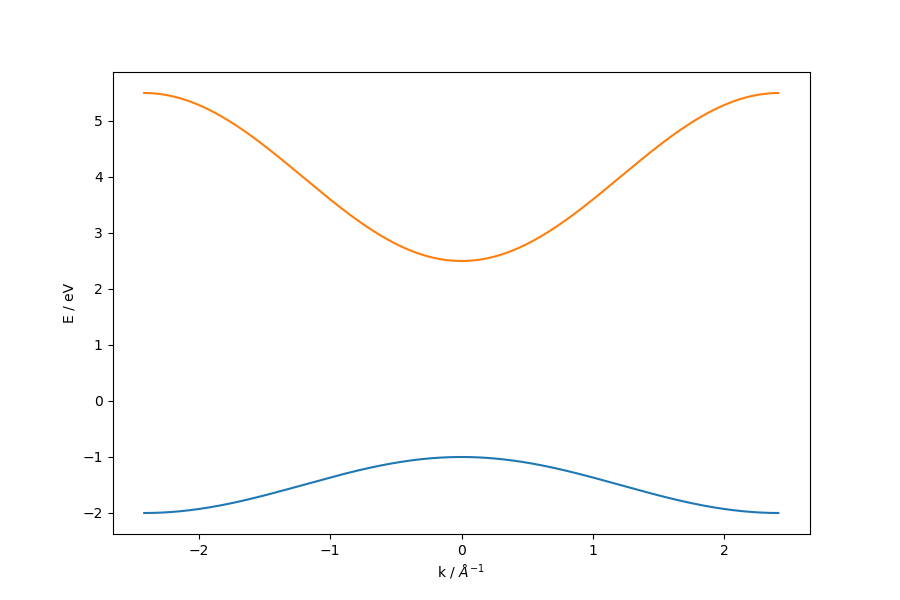
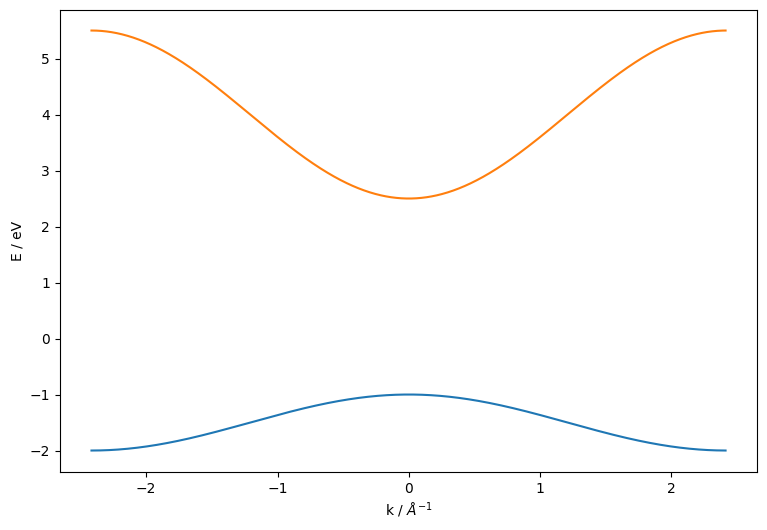
prettier plots

diff --git a/SBE_on_LCAO.py b/SBE_on_LCAO.py
@@ -8,6 +8,7 @@ import scipy.constants as constants
 from unit_conversion import eV_to_au, au_to_ev, angstrom_to_bohr, bohr_to_angstrom, lam_to_omega, nm_to_au, fs_to_au, au_to_fs, au_to_Vpm, Vpm_to_au, Cm_to_au, au_to_A
 from scipy.integrate import solve_ivp
 from LCAO_for_SBE import LCAOAtomIntegrals, LCAOMatrices
+plt.rcParams['savefig.bbox'] = 'tight'
 
 class Simulation:
     def __init__(self, t_end, n_steps):
@@ -125,31 +126,35 @@ class Simulation:
         rho = self.solution
         return np.einsum('tkab,kbc -> tkac', rho, J)
     
-    def calculate_spectrum(self):
+    def calculate_spectrum(self, zoom=None): #TODO fix unit/dimension conversions
         N = self.n_steps
+        dt = self.t_end/N
         omega = np.array([np.exp(-1j * 2 * n *np.pi /N) for n in range(self.n_steps)])
         vandermonde = np.vander(omega, increasing=True).T
-        result = vandermonde @ self.current
+        result = (dt / np.sqrt(2 * np.pi)) * vandermonde @ self.current
         ang_freq = 2 * np.pi * np.arange((self.n_steps)) / self.t_end
+        ang_freq = ang_freq[:len(ang_freq)//2]
         energy_eV = au_to_ev(ang_freq)
-        energy_eV = energy_eV[:len(energy_eV)//2]
         result = result[:len(result)//2]
 
-        fix, ax = plt.subplots()
+        fix, ax = plt.subplots(figsize=(16,9))
         def energy_to_harmonic(E):
             return E / au_to_ev(self.pulse.omega)
         
         def harmonic_to_energy(h):
             return h * au_to_ev(self.pulse.omega)
 
-        S = energy_eV**2 * np.abs(result)**2
+        S = ang_freq**2 * np.abs(result)**2
         S /= np.max(S)
         ax.semilogy(energy_eV, S) 
         ax.set_xlabel('E / eV')
         ax.set_ylabel('S (normalized)')
         secax = ax.secondary_xaxis('top', functions=(energy_to_harmonic, harmonic_to_energy))
         secax.set_xlabel('Harmonic order')
-        plt.show() #TODO auf 1 normieren
+        if zoom != None:
+            ax.set_xlim(0,zoom)
+        plt.savefig('hhg_spectrum.png')
+        plt.show() 
         
 
 class Field:
@@ -188,7 +193,7 @@ class Plot:
     
     def get_heatmap_rho(self):
         rho = np.abs(self.X_inv @ self.solution @ self.X)
-        fig, axs = plt.subplots(self.m_basis+1,1, figsize=(10,6), sharex=True, constrained_layout=True)
+        fig, axs = plt.subplots(self.m_basis+1,1, figsize=(15,6.3), sharex=True, constrained_layout=True)
         k_angstrom = self.k_list/constants.physical_constants['atomic unit of length'][0] * constants.angstrom
         time_fs = au_to_fs(self.time)
         for i in range(self.m_basis):
@@ -260,14 +265,14 @@ def gaussian_sine(t, omega, sigma, t_center, E0):
 if __name__ =="__main__":
     sim = Simulation(t_end=80, n_steps=2000)
     sim.define_pulse(sigma=5, lam=740, t_center=40, E0=2e9) #E_0 = 1e11 roundabout corresponding to I = 1.5e14 W/cm^2
-    sim.use_LCAO(num_k=1000, a=1.3, scale_H=0.21, m_max=2, T2=5, shift=0, scale2=0.19, vb_index=1)
+    sim.use_LCAO(num_k=1000, a=1.3, scale_H=0.21, m_max=2, T2=0, shift=0, scale2=0.19, vb_index=1)
     sim.integrate() 
     results = Plot(sim)
     results.get_heatmap_rho()
     sim.get_current()
     results = Plot(sim)
     results.plot_current()
-    sim.calculate_spectrum()
+    sim.calculate_spectrum(zoom=20)
     results.plot_density_matrix(k_index=0)
 
 

diff --git a/LCAO_for_SBE.py b/LCAO_for_SBE.py
@@ -9,6 +9,7 @@ from scipy.linalg import eigh, ishermitian
 from unit_conversion import Cm_to_au, eV_to_au
 import scipy.constants as const
 from numerov import solve_schroedinger, symmetric
+plt.rcParams['savefig.bbox'] = 'tight'
 
 
 
